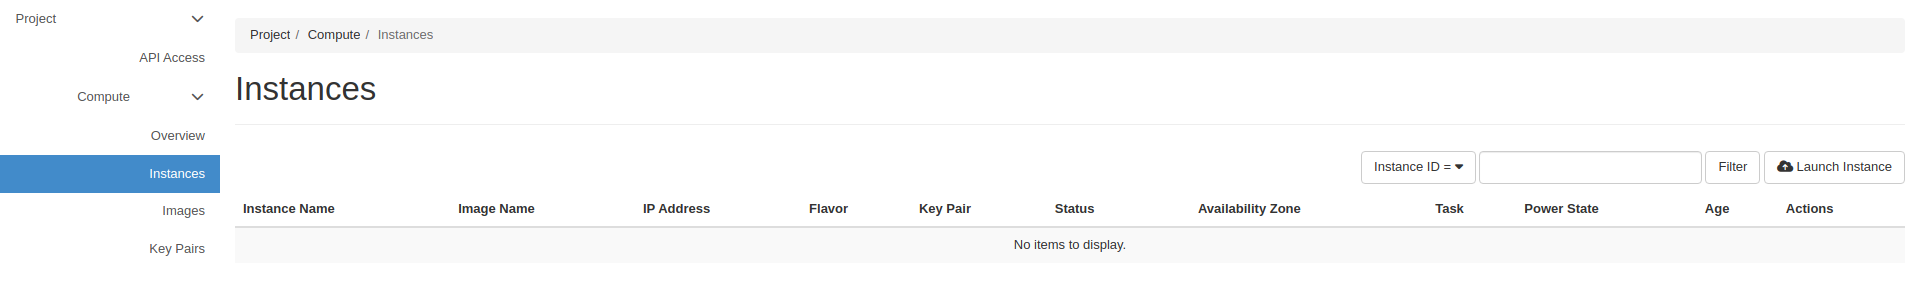
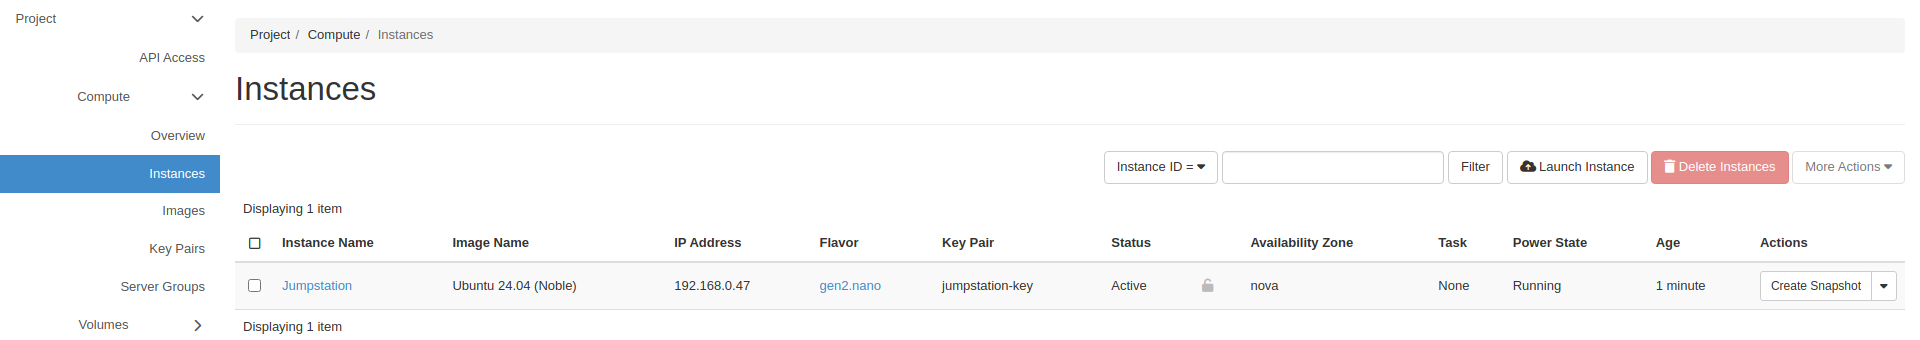
Fix day-1 dashboard screenshots and ordering
The Horizon instances screenshot showed an empty list while the text
said the instance was building. The images guide had no Horizon
screenshot for the snapshot step. Both recaptured against a v4 cloud
with an instance and a snapshot actually present.

Ordering: the intro guide and the Dashboard category were both
position 1, so the category won and the intro sorted second. The intro
is now first, and Accessing Skyline follows Getting Started rather than
trailing the dashboard guides.

diff --git a/versioned_docs/operators-manual/_toc.md b/versioned_docs/operators-manual/_toc.md
@@ -4,10 +4,10 @@
 
 1. [Introduction to OpenMetal and your Private Cloud Core](./day-1/intro-to-openmetal-private-cloud.md)
 2. [Getting Started with the Dashboard](./day-1/dashboard/getting-started-with-dashboard.md)
-3. [Create a User and Project](./day-1/dashboard/create-user-project.md)
-4. [How to Create an Instance](./day-1/dashboard/create-first-instance.md)
-5. [Manage and Upload Images](./day-1/dashboard/images.md)
-6. [Accessing Skyline](./day-1/dashboard/accessing-skyline.md)
+3. [Accessing Skyline](./day-1/dashboard/accessing-skyline.md)
+4. [Create a User and Project](./day-1/dashboard/create-user-project.md)
+5. [How to Create an Instance](./day-1/dashboard/create-first-instance.md)
+6. [Manage and Upload Images](./day-1/dashboard/images.md)
 7. [How to Install and Use OpenStackClient](./day-1/command-line/openstackclient.md)
 
 ## Day 2

diff --git a/versioned_docs/operators-manual/day-1/dashboard/images.md b/versioned_docs/operators-manual/day-1/dashboard/images.md
@@ -1,5 +1,5 @@
 ---
-sidebar_position: 4
+sidebar_position: 5
 ---
 import Tabs from '@theme/Tabs';
 import TabItem from '@theme/TabItem';
@@ -79,7 +79,9 @@ A snapshot captures an instance's disk as a new image.
 <Tabs groupId="dashboard">
 <TabItem value="hz" label="Horizon" default>
 
-Go to **Project -> Compute -> Instances**, find the instance, then choose **Create Snapshot**. Snapshots appear under **Project -> Compute -> Images**.
+Go to **Project -> Compute -> Instances**, find the instance, then choose **Create Snapshot**. Snapshots appear under **Project -> Compute -> Images** with a type of `Snapshot`.
+
+![Instance snapshot in the Horizon images list](images/hz-instance-snapshot.png)
 
 </TabItem>
 <TabItem value="skyline" label="Skyline">

diff --git a/versioned_docs/operators-manual/day-1/dashboard/create-first-instance.md b/versioned_docs/operators-manual/day-1/dashboard/create-first-instance.md
@@ -1,5 +1,5 @@
 ---
-sidebar_position: 3
+sidebar_position: 4
 ---
 import Tabs from '@theme/Tabs';
 import TabItem from '@theme/TabItem';

diff --git a/versioned_docs/operators-manual/day-1/dashboard/create-user-project.md b/versioned_docs/operators-manual/day-1/dashboard/create-user-project.md
@@ -1,5 +1,5 @@
 ---
-sidebar_position: 2
+sidebar_position: 3
 ---
 import Tabs from '@theme/Tabs';
 import TabItem from '@theme/TabItem';

diff --git a/versioned_docs/operators-manual/day-1/dashboard/accessing-skyline.md b/versioned_docs/operators-manual/day-1/dashboard/accessing-skyline.md
@@ -1,5 +1,5 @@
 ---
-sidebar_position: 5
+sidebar_position: 2
 ---
 # Accessing Skyline
 
